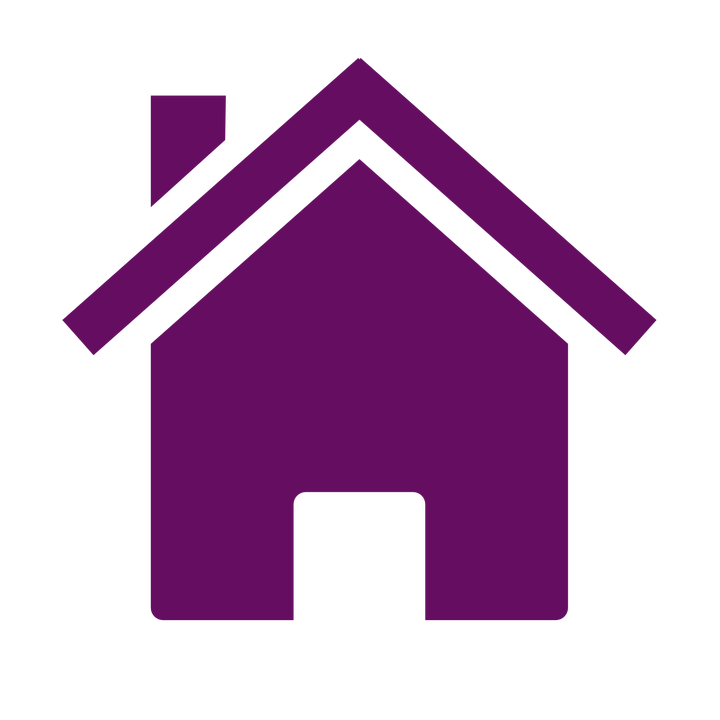
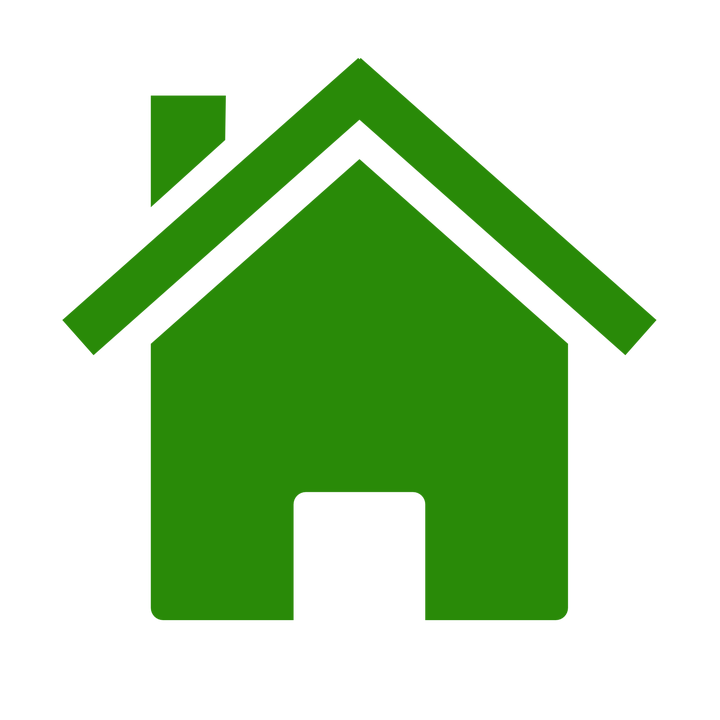
V1.4

diff --git a/Accueil.html b/Accueil.html
@@ -159,7 +159,7 @@
 	 <div class="row">
         <div class="col-lg-4">
           <img class="img-circle" src="img/phone.png" alt="Generic placeholder image" width="100" height="100">
-          <h2>CONTACT</h2>
+          <h2 class="text_footer">CONTACT</h2>
           <div class="col-md-4">
                     <ul class="part">
                         <li class="text_footer">Téléphone:</li>
@@ -184,7 +184,7 @@
 		
         <div class="col-lg-4">
           <img class="img-circle" src="img/time.png" alt="Generic placeholder image" width="100" height="100">
-          <h2>HORAIRE</h2>
+          <h2 class="text_footer">HORAIRES</h2>
           <div class="col-md-6">
                     <ul class="part">
                         <li class="text_footer">Lundi</li>
@@ -214,11 +214,11 @@
 		
 		<div class="col-lg-4">
 		
-		<img class="img-circle" src="img/home.png" alt="Generic placeholder image" width="100" height="100">
-          <h2>NOUS TROUVER</h2>
-		  <p> 547 rue Saint Jean  59246 Mons-en-Pévèle</p> 
+		<img class="img-circle img-home" src="img/home.png" alt="Generic placeholder image" width="100" height="100">
+          <h2 class="text_footer">NOUS TROUVER</h2>
+		  <p class="text_footer"> 547 rue Saint Jean  59246 Mons-en-Pévèle</p> 
 		
-		<div id="googleMap" style="height:250px;width:100%;"></div>
+		
 		</div>
 		
         

diff --git a/css/navbar.css b/css/navbar.css
@@ -4,7 +4,7 @@
 
 .topprestation{
 	text-align:left;
-	color:#610B5E;
+	color:#298A08;
 	Font-Weight: Bold;
 	font-size:14px;
 }
@@ -15,7 +15,7 @@
 
   .navbar {
       margin-bottom: 0;
-      background:black;
+      background:#6E6E6E;
       z-index: 9999;
       border: 0;
       font-size: 12px !important;
@@ -28,7 +28,7 @@
       color: #fff !important;
   }
   .navbar-nav li a:hover, .navbar-nav li.active a {
-      color: #610B5E !important;
+      color: #298A08 !important;
       background-color: #fff !important;
   }
   .navbar-default .navbar-toggle {

diff --git a/css/Style.css b/css/Style.css
@@ -61,8 +61,8 @@ footer{
 }
 .fade-carousel .carousel-indicators > li {
     margin: 0 2px;
-    background-color: #f39c12;
-    border-color: #f39c12;
+    background-color: #298A08;
+    border-color: #298A08;
     opacity: .7;
 }
 .fade-carousel .carousel-indicators > li.active {
@@ -90,7 +90,7 @@ footer{
           -ms-transform: translate3d(-50%,-50%,0);
            -o-transform: translate3d(-50%,-50%,0);
               transform: translate3d(-50%,-50%,0);
-	border: 3px solid;
+	
 }
 .hero h1 {
     font-size: 6em;    

diff --git a/css/footer.css b/css/footer.css
@@ -7,6 +7,15 @@ footer{
 }
 
 .text_footer{
-	color:black;
+	color:#6E6E6E;
 	list-style-type:none;
+}
+
+.img-circle{
+	box-shadow: 2px 2px 5px #888888;
+}
+
+.img-home{
+	border:5px solid;
+	border-color:#298A08;
 }
